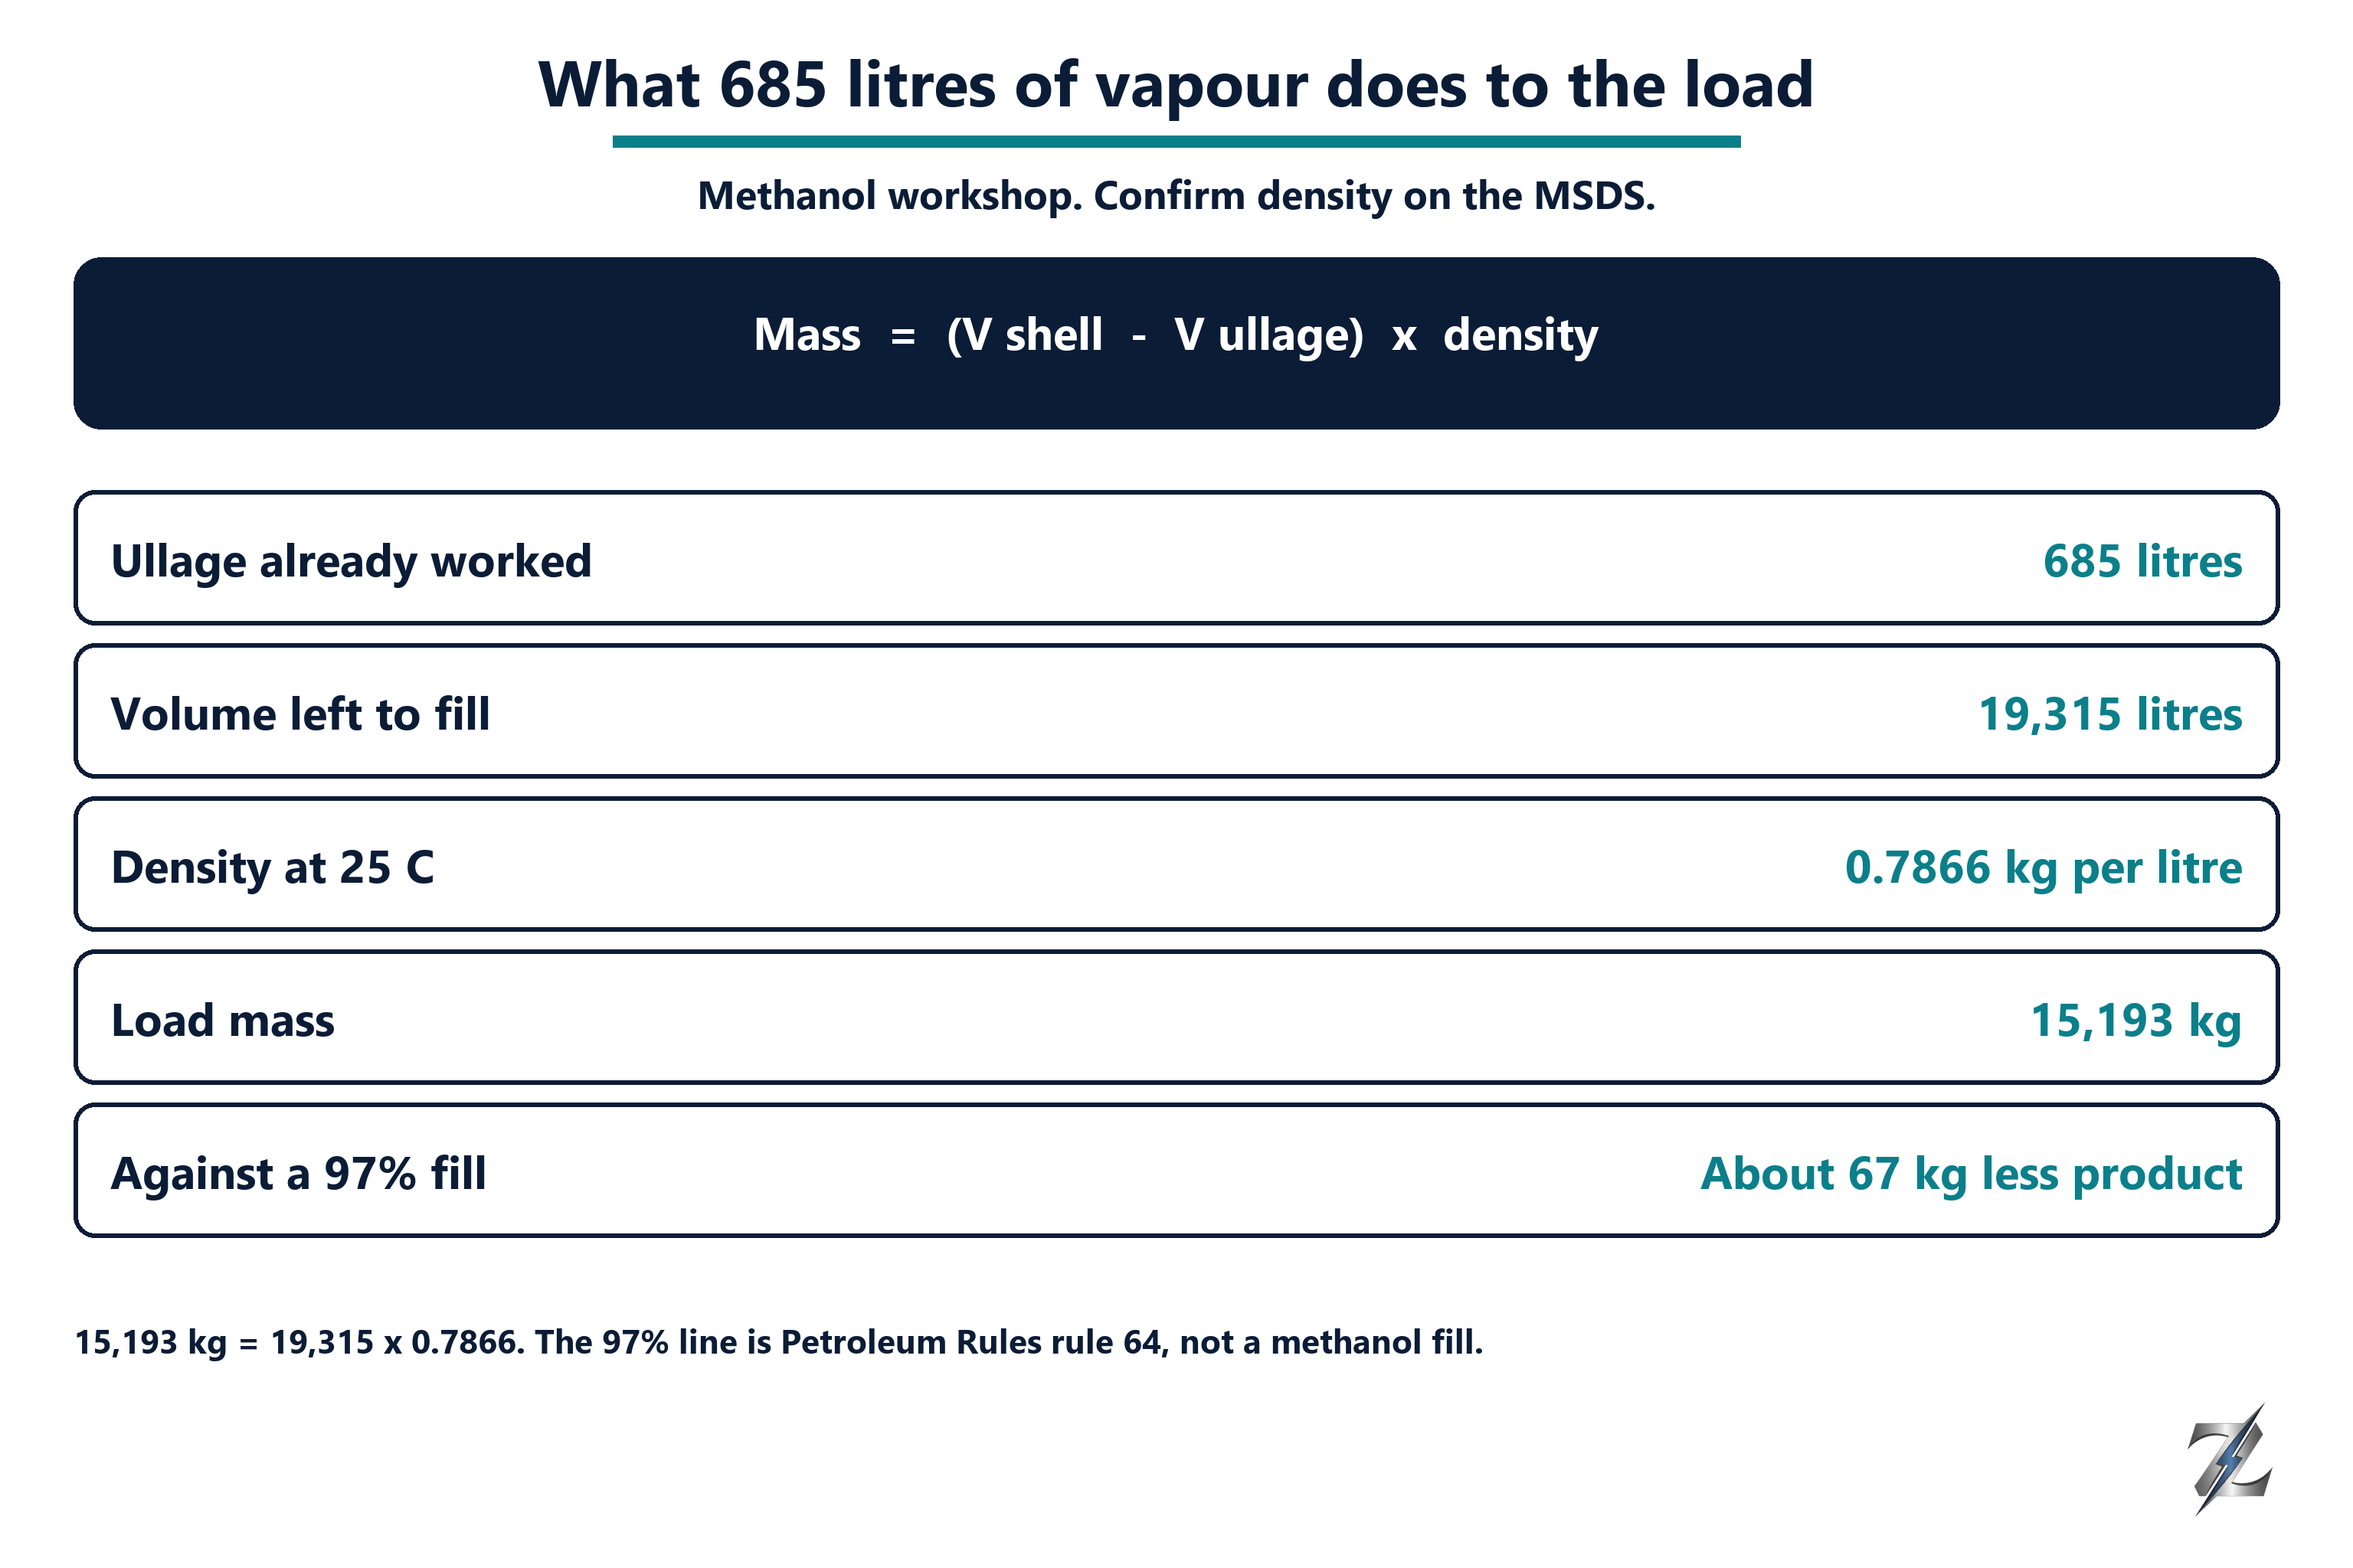
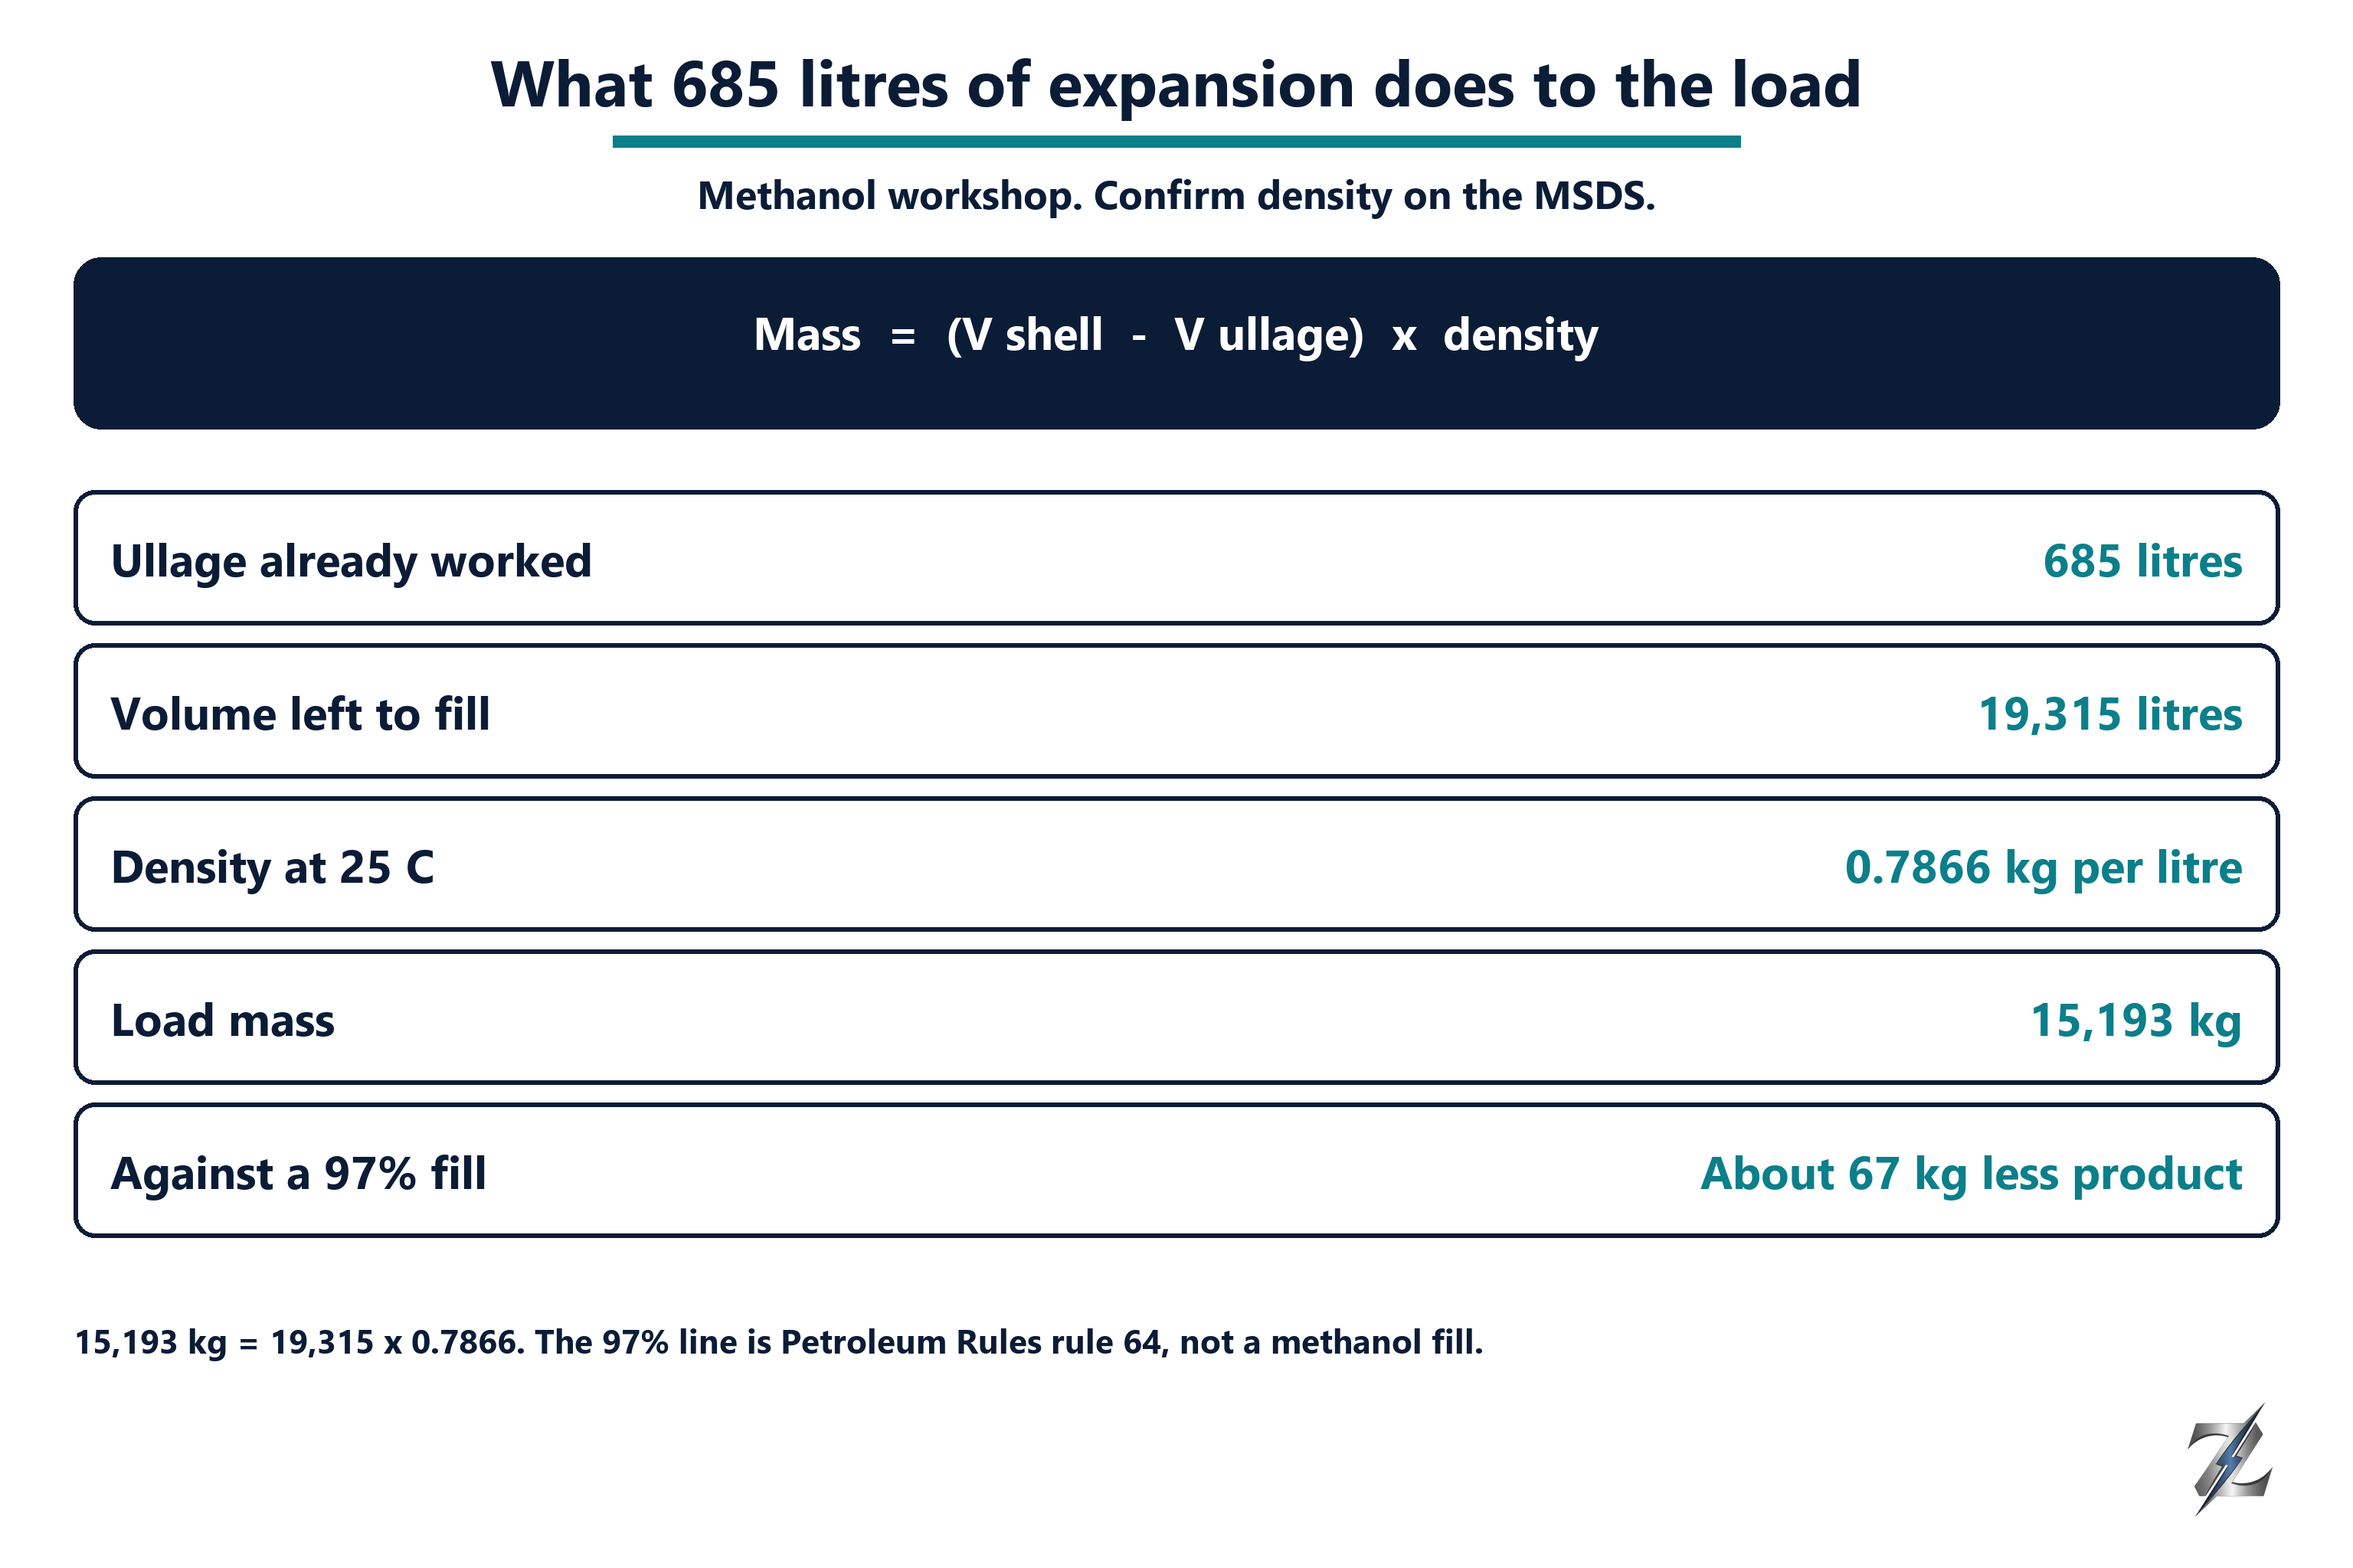
Name both ODC fee networks in the summary and call the methanol figure liquid expansion.
The 685 litre workshop is the volume the liquid gains, and the same fee bands apply to the national-highway journey and, separately, to MPRDC roads.

Changed region(s): [[0.1875, 0.0312, 0.8125, 0.0938]]

diff --git a/src/lib/blog-exhibits-odc.ts b/src/lib/blog-exhibits-odc.ts
@@ -34,7 +34,7 @@ export const odcKpis: readonly BlogKpi[] = [
   },
   {
     value: "₹1,200",
-    label: "Lowest fee band, per 50 km",
+    label: "National highways and MPRDC, per 50 km",
     detail:
       "Paragraph 13 of the 27 October 2025 circular, for the national-highway journey: HT-1 to HT-3 ₹1,200, HT-4 to HT-6 ₹2,400, HT-7 to HT-9 ₹3,600, HT-10 to HT-13 ₹4,800 per 50 km or part, when gross combination weight including the puller stays inside the permitted limit. The Madhya Pradesh order of 14 July 2025 uses the same four bands on MPRDC roads. Neither figure is a trailer hire rate.",
   },
@@ -45,7 +45,7 @@ export const odcTakeaways = [
   "Rule 93 after GSR 414(E) is the ordinary envelope. An N3 goods vehicle is 2.6 m by 12 m by 4.0 m. A semi-trailer with a tractor is 2.6 m by 18.75 m by 4.0 m. A modular hydraulic trailer with a puller is 3.0 m by 29 m by 4.75 m. An indivisible load on an N2 or N3 may be up to 4.75 m high.",
   "The 27 October 2025 circular draws HT-1 to HT-13 at not more than 18 tonnes per axle row. The gross weights in that table are without the puller. HT-10 to HT-13 count the attachment weight inside gross vehicle weight.",
   "The permission letter sets speed, hours, and escort. If the regional office does not update the bridge list within 7 days, the portal opens the fee. The letter still issues only after payment.",
-  "There is no honest national trailer-hire rate per km. The portal fee is a separate published band per 50 km. Split hire, puller, fuel, civil work, permissions, toll, empty return, and waiting.",
+  "There is no honest national trailer-hire rate per km. The same four bands per 50 km are the national-highway fee and, separately, the MPRDC-road fee. Split hire, puller, fuel, civil work, permissions, toll, empty return, and waiting.",
   "A MoRTH letter is a national-highway permission. State roads, a utility shutdown, a railway span, and a loaded height above 4.75 m are separate problems. The 2012 bridge study does not cover a limit-state bridge under IRC 6 or IRC 112.",
 ] as const;
 

diff --git a/src/lib/blog-exhibits-hazchem.ts b/src/lib/blog-exhibits-hazchem.ts
@@ -45,7 +45,7 @@ export const hazchemTakeaways = [
   "The consignor owns the UN number. The carrier owns the TREM card in the cab and the panel on the vehicle.",
   "A petroleum tank vehicle needs a PESO approval for that registration, a spark arrestor, a battery isolator, and the rule 72 extinguishers.",
   "Do not print a national gate-rejection rate or an incident pie. Count rejects at your own gate.",
-  "Ullage is the approved drawing, checked with the expansion sum. The methanol workshop is 685 litres of vapour and 15,193 kg. Petroleum's 97 percent net is a different rule.",
+  "Ullage is the approved drawing, checked with the expansion sum. The methanol workshop is approximately 685 litres of liquid-volume expansion under the stated assumptions, and 15,193 kg. Petroleum's 97 percent net is a different rule.",
   "A spot tanker is the wrong tool when a valve failure becomes an environmental case. Name the fleet and the wash certificate.",
   "An in-gauge chemical tanker uses one day of e-way bill validity per 200 km or part. The 20 km clock is over-dimensional cargo, or a multimodal shipment with a ship leg.",
 ] as const;

diff --git a/scripts/render-hazchem-cards.py b/scripts/render-hazchem-cards.py
@@ -171,7 +171,7 @@ def panel_card() -> None:
 
 def mass_card() -> None:
     img, draw = new_canvas()
-    center_text(draw, "What 685 litres of vapour does to the load", px(24), font(42))
+    center_text(draw, "What 685 litres of expansion does to the load", px(24), font(42))
     draw.line((px(400), px(92), px(1136), px(92)), fill=TEAL, width=px(8))
     center_text(draw, "Methanol workshop. Confirm density on the MSDS.", px(108), font(26))
     bar = "Mass  =  (V shell  -  V ullage)  x  density"
